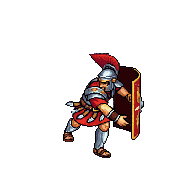
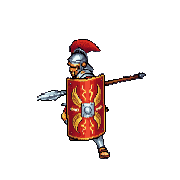
fix(百夫长第三轮): 掷矛补两段过渡 + 普攻矛刃突刺光 + 预警圈 / 落地裂坑放大
- 用户 11-27「投掷…把整个序列帧给我看一下…中间是少了一针」: 4→5(矛凭空消失)补「握着矛前倾送出」3 帧, 10→11(蹲着跳到站直拿新矛)
  补「起身抽新矛」3 帧; 两段都是首尾钉现有帧让 PixelLab 补中间, 画布 180×196 按首帧逐像素对齐(位移 0, -8); 17 帧 @16, 出手下标 6 = 结算 0.38 秒
- 「矛刺出去的话…带点特效」: 特效工作台自写图层画矛刃白金突刺光(光刃 + 矛尖星闪 + 速度线, 6 帧 0.3 秒),
  钉在命中帧矛尖(帧里量的, 按镜头坐标偏移: 立绘是朝镜头的板)
- 「下坠的那个地裂的这个圈还可以再大点…预警阶段也可以再大点」: 预警圈 9 → 14 米, 落地裂坑 380 → 600 码(≈14.4 米)

Changed region(s): [[0.1944, 0.1944, 0.8056, 0.8889]]

diff --git a/tools/oneoff/cent_fix3_1127.py b/tools/oneoff/cent_fix3_1127.py
@@ -1,0 +1,80 @@
+"""cent_fix3_1127.py —— 百夫长第三轮(用户 11-27):
+  「投掷…把整个序列帧给我看一下…中间是少了一针」⇒ 掷矛补两处过渡: 握矛前倾送出 3 帧(4→5 之间) + 起身抽新矛 3 帧(10→11 之间);
+      帧条 throw_mix 取 1..17 共 17 帧 @16 ≈ 1.06 秒, 出手帧 = 下标 6(握矛最后一帧之后那一帧, 0.44 秒)
+  「普通攻击的那个矛刺出去的话…带点特效…直接画点特效」⇒ 普攻刺出那一下矛刃上裹一层白金突刺光(spear-cent-tip, 特效工作台自写图层:
+      光刃 + 矛尖星形闪光 + 速度线, 6 帧 0.3 秒), 钉在命中帧的矛尖上(帧里量的: 相对立足点往前 75 像素、离地 25 像素)
+  (预警圈 14 米 / 落地裂坑 600 码已在本轮前直接改了 spear_eq_vfx.gd)
+一次性; 原行尾二进制读写, 每处替换恰好命中一次。
+"""
+import os
+
+ROOT = os.path.dirname(os.path.dirname(os.path.dirname(os.path.abspath(__file__))))
+
+
+def patch(rel, pairs):
+    p = os.path.join(ROOT, rel)
+    raw = open(p, "rb").read()
+    nl = "\r\n" if b"\r\n" in raw else "\n"
+    s = raw.decode("utf-8").replace("\r\n", "\n")
+    for a, b in pairs:
+        assert s.count(a) == 1, (rel, a[:70])
+        s = s.replace(a, b)
+    open(p, "wb").write(s.replace("\n", nl).encode("utf-8"))
+
+
+patch("tools/assetgen/pack_spear_chip_art.py", [
+    ('    "eq-centurion-throw":  ("throw_mix",     list(range(1, 13))),',
+     '    "eq-centurion-throw":  ("throw_mix",     list(range(1, 18))),   # 11-27 第二版 17 帧: 后拉 3 + 握矛送出 3 + 甩出随势 6 + 起身抽新矛 3 + 站直 2(见 SOURCE.txt), @16, 出手下标 6 #'),
+    ('            ("centurion-fall-trail", "spear-cent-trail", False)]:\n',
+     '            ("centurion-fall-trail", "spear-cent-trail", False), ("centurion-spear-thrust-tip", "spear-cent-tip", False)]:\n'),
+])
+
+patch("scripts/systems/equip/spear_synergy_system.gd", [
+    ("const THROW_ANIM := 1.0      # 11-27 重出的掷矛动作 16 帧 @16\n",
+     "const THROW_ANIM := 1.06     # 11-27 掷矛 17 帧 @16(补了握矛送出 / 起身抽新矛两段过渡)\n"),
+    ("const THROW_RELEASE := 0.34   # 出手帧 = 下标 4(12 fps)",
+     "const THROW_RELEASE := 0.38   # 出手帧 = 下标 6(16 fps)"),
+])
+
+patch("scripts/scenes/battle/spear_eq_vfx.gd", [
+    ("\t_cent_play(u, \"throw\", 12.0)   # 12 帧 = 1 秒, 出手帧下标 4(结算 THROW_RELEASE 0.34 同一刻)\n",
+     "\t_cent_play(u, \"throw\", 16.0)   # 17 帧 @16, 出手帧下标 6(结算 THROW_RELEASE 0.38 同一刻)\n"),
+    ("\t_dir_strip(SV + \"spear-cent-thrust.png\", 7, mid, dir, ln * float(battle.WS), 24.0, 7.0 / 24.0, CENT_TIP_H)\n",
+     "\t_dir_strip(SV + \"spear-cent-thrust.png\", 7, mid, dir, ln * float(battle.WS), 24.0, 7.0 / 24.0, CENT_TIP_H)\n"
+     "\t_cent_tip_flash(u)\n"),
+    ("func cent_thrust(u: Dictionary, t: Dictionary, n: int) -> void:\n",
+     "## 普攻刺出那一下矛刃上的白金突刺光(11-27 用户「矛刺出去的话…带点特效」): 钉在命中帧的矛尖上\n"
+     "##   命中帧矛尖在帧里 (21, 161), 立足点 (96, 186) ⇒ 往前 75 像素、离地 25 像素; 帧 128×48 里矛尖在 x≈18, 光刃往后延 100 像素\n"
+     "const CENT_TIP_FWD_PX := 75.0\n"
+     "const CENT_TIP_UP_PX := 25.0\n"
+     "\n"
+     "func _cent_tip_flash(u: Dictionary) -> void:\n"
+     "\tvar spr = u.get(\"sprite\", null)\n"
+     "\tif not _ok() or not is_instance_valid(spr) or not ResourceLoader.exists(SV + \"spear-cent-tip.png\"):\n"
+     "\t\treturn\n"
+     "\tvar px: float = float((spr as Sprite3D).pixel_size)\n"
+     "\tvar fr: bool = bool((spr as Sprite3D).flip_h)   # 原画朝左; 翻转 = 朝右\n"
+     "\tvar fwd: float = CENT_TIP_FWD_PX * px\n"
+     "\tvar t: Texture2D = load(SV + \"spear-cent-tip.png\")\n"
+     "\tvar s := Sprite3D.new()\n"
+     "\ts.texture = t\n"
+     "\ts.hframes = 6\n"
+     "\ts.shaded = false\n"
+     "\ts.transparent = true\n"
+     "\ts.no_depth_test = true\n"
+     "\ts.render_priority = 9\n"
+     "\ts.texture_filter = BaseMaterial3D.TEXTURE_FILTER_NEAREST\n"
+     "\ts.billboard = BaseMaterial3D.BILLBOARD_ENABLED\n"
+     "\ts.pixel_size = px\n"
+     "\ts.flip_h = fr\n"
+     "\ts.offset = Vector2((64.0 - 18.0) * (-1.0 if fr else 1.0), 0.0)   # 帧里矛尖在 x=18: 让矛尖对上锚点\n"
+     "\tvar base: Vector3 = (spr as Sprite3D).global_position\n"
+     "\tvar cb: Basis = battle._cam.global_transform.basis if battle.get(\"_cam\") != null else Basis.IDENTITY   # 立绘是朝镜头的板: 帧里的左右 / 上下 = 镜头的 x / y 轴\n"
+     "\ts.position = base + cb.x * (fwd if fr else -fwd) + cb.y * (CENT_TIP_UP_PX * px)\n"
+     "\tbattle._world.add_child(s)\n"
+     "\t_mfx.append({\"node\": s, \"nf\": 6, \"fps\": 20.0, \"t\": 0.0, \"life\": 0.3, \"loop\": false, \"follow\": null, \"h\": 0.0})\n"
+     "\n"
+     "\n"
+     "func cent_thrust(u: Dictionary, t: Dictionary, n: int) -> void:\n"),
+])
+print("ok")

diff --git a/tools/assetgen/pack_spear_chip_art.py b/tools/assetgen/pack_spear_chip_art.py
@@ -114,7 +114,7 @@ CENT2 = {
     "eq-centurion-idle":   ("idle",          [0, 1, 2, 3]),
     "eq-centurion-walk":   ("walk_skel",     [0, 1, 2, 3, 4, 5]),
     "eq-centurion-attack": ("attack2",       [1, 2, 3, 4, 5, 6, 7, 8, 1, 0]),          # 命中 = 原第 6 帧(矛尖最远) = 下标 5; 末尾补回 1 / 0 接待机
-    "eq-centurion-throw":  ("throw_mix",     list(range(1, 13))),                      # 11-27 拼接(见 ai_src/cent_char/throw_mix/SOURCE.txt): 起手 4 帧(矛尖朝前后拉) + 下标 4 前冲甩出矛离手 + 随势 + 掏新矛; 12 帧 @12 = 1 秒
+    "eq-centurion-throw":  ("throw_mix",     list(range(1, 18))),   # 11-27 第二版 17 帧: 后拉 3 + 握矛送出 3 + 甩出随势 6 + 起身抽新矛 3 + 站直 2(见 SOURCE.txt), @16, 出手下标 6 #                      # 11-27 拼接(见 ai_src/cent_char/throw_mix/SOURCE.txt): 起手 4 帧(矛尖朝前后拉) + 下标 4 前冲甩出矛离手 + 随势 + 掏新矛; 12 帧 @12 = 1 秒
     "eq-centurion-shield": ("shield_brace2", [3, 4, 5, 6, 7, 8] + [8] * 36),           # 下蹲举盾 6 帧 + 撑盾(结构同旧帧条, 引擎按举盾秒数算播放速度)
     "eq-centurion-sweep":  ("spin_sweep",    list(range(5, 17))),                      # 原地转一圈横扫(前 5 帧几乎不动, 截掉)
     "eq-centurion-death":  ("death",         [0, 1, 2, 3, 4, 5, 6, 7, 8, 8, 8, 8]),     # 末帧连停 4 拍
@@ -157,7 +157,7 @@ def main():
     CV = os.path.join(ROOT, "tools", "assetgen", "ai_src", "cent_vfx")
     for src, dst, centre in [("centurion-crack-segment", "spear-cent-crack", False),
             ("centurion-aegis-open+centurion-aegis-loop", "spear-cent-aegis", False), ("centurion-drop-marker", "spear-cent-marker", False),
-            ("centurion-fall-trail", "spear-cent-trail", False)]:
+            ("centurion-fall-trail", "spear-cent-trail", False), ("centurion-spear-thrust-tip", "spear-cent-tip", False)]:
         if "+" in src:   # 两段接成一条(先展开后循环)
             parts = []
             for one in src.split("+"):
